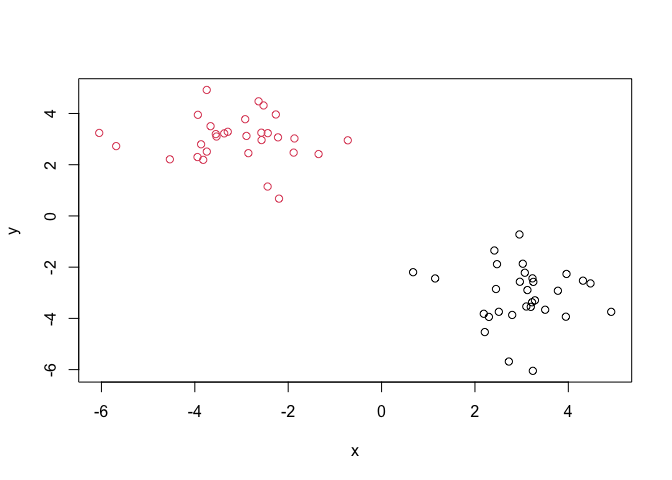
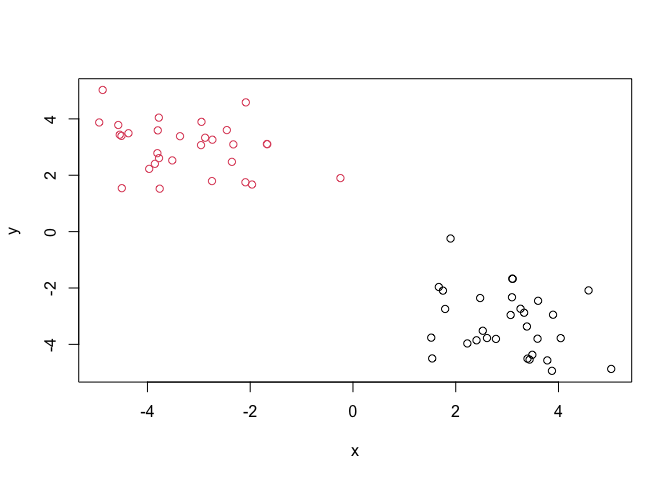
Assignment completed 10-23-21

diff --git a/class08/class08.md b/class08/class08.md
@@ -28,16 +28,16 @@ km
     ## 
     ## Cluster means:
     ##           x         y
-    ## 1 -3.102857  3.015015
-    ## 2  3.015015 -3.102857
+    ## 1 -3.235171  3.009271
+    ## 2  3.009271 -3.235171
     ## 
     ## Clustering vector:
     ##  [1] 2 2 2 2 2 2 2 2 2 2 2 2 2 2 2 2 2 2 2 2 2 2 2 2 2 2 2 2 2 2 1 1 1 1 1 1 1 1
     ## [39] 1 1 1 1 1 1 1 1 1 1 1 1 1 1 1 1 1 1 1 1 1 1
     ## 
     ## Within cluster sum of squares by cluster:
-    ## [1] 60.2203 60.2203
-    ##  (between_SS / total_SS =  90.3 %)
+    ## [1] 60.63512 60.63512
+    ##  (between_SS / total_SS =  90.6 %)
     ## 
     ## Available components:
     ## 
@@ -71,8 +71,8 @@ km$centers
 ```
 
     ##           x         y
-    ## 1 -3.102857  3.015015
-    ## 2  3.015015 -3.102857
+    ## 1 -3.235171  3.009271
+    ## 2  3.009271 -3.235171
 
 > Q. Plot x colored by the kmeans cluster assignment and add cluster
 > centers as blue points.
@@ -395,8 +395,6 @@ text(pca$x[,1], pca$x[,2], colnames(x),col=mycols_pca)
 ```
 
 ![](class08_files/figure-gfm/unnamed-chunk-24-1.png)<!-- -->
-
-vnskdfjbn
 
 ## PCA “Loadings”
 
